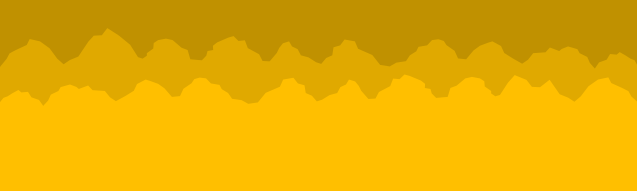
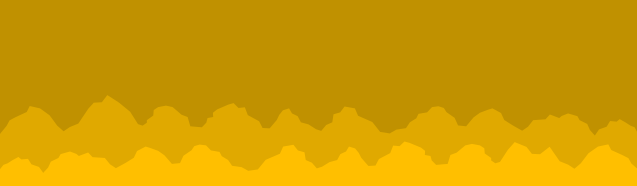
better centering and width

diff --git a/app/public/stylesheets/09_Frontman.css b/app/public/stylesheets/09_Frontman.css
@@ -12,6 +12,8 @@ hr{
   margin: 0em 0em 0em 0em;
 }
 body{
+  background-image: url('../images/DINOBACKGROUND.png');
+  background-repeat: repeat-x;
   background-color: rgb(255,191,0);
   font-family: 'Roboto', sans-serif;
 }
@@ -88,10 +90,9 @@ body section.preauth artical div a{
 }
 /*========MAIN APP==========*/
 main {
-  background-image: url('../images/DINOBACKGROUND.png');
-  background-repeat: repeat-x;
   padding:2em;
-  width:100%;
+  max-width:75em;
+  margin:auto;
 }
 main section {
   vertical-align: top;
@@ -102,7 +103,7 @@ main section.peep{
   margin:auto;
 }
 main section.peep-aside,  main section.peep-profile{
-  width: 19.99%;
+  width: 22.6%;
 }
 main section artical{
   width: 98%;
